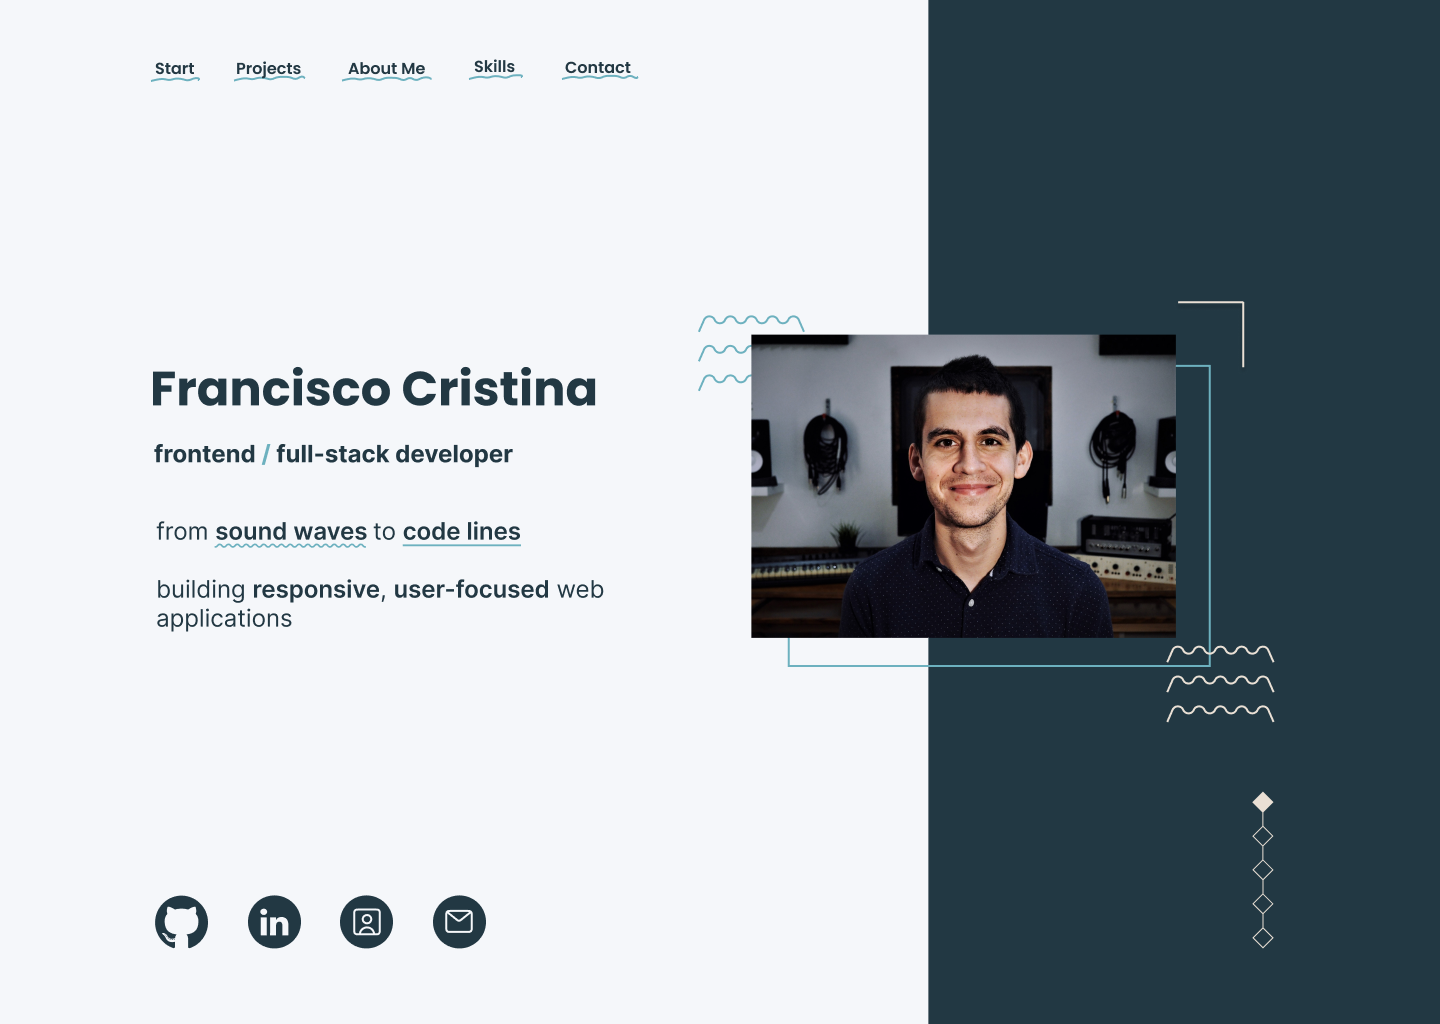
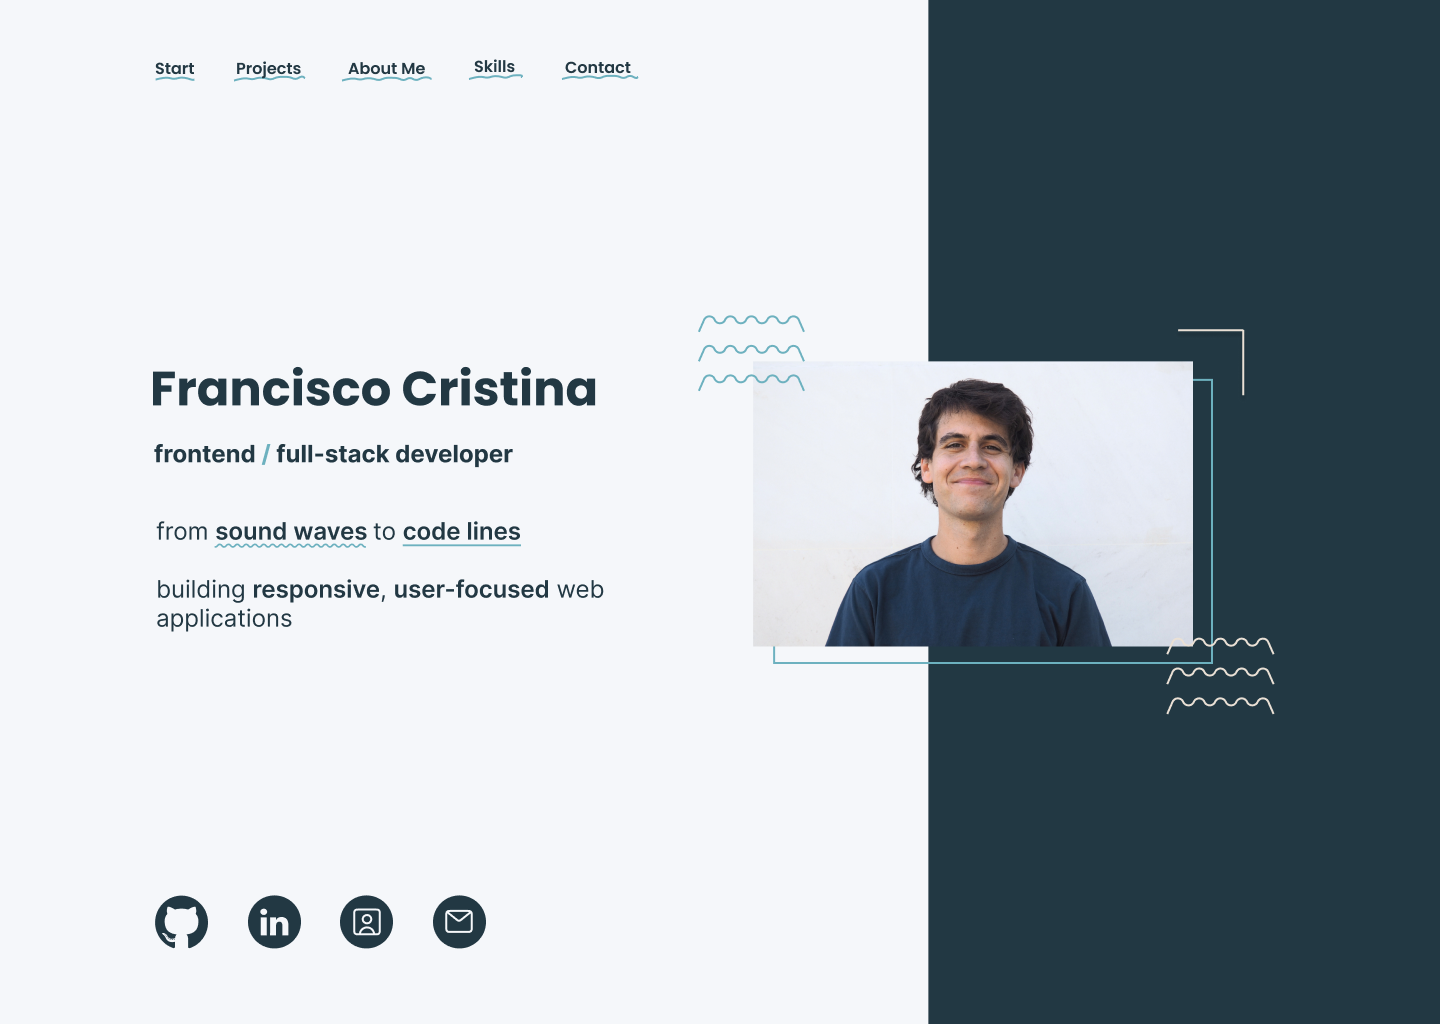
minor tweaks

Changed region(s): [[0.5, 0.3125, 0.875, 0.7188], [0.875, 0.7812, 0.9062, 0.8125]]

diff --git a/src/Projects.jsx b/src/Projects.jsx
@@ -15,23 +15,23 @@ export default function Projects() {
                 Projects
             </h2>
 
-            < Divider title={'full-stack'} isProject={true}/>
-
-            < ProjectItem image={yelpCamp} title={'Yelp Camp'} date={"Jun '25"} demo={'https://yelp-camp-qj1s.onrender.com'} repo={'https://github.com/gumballoon/yelp-camp'} description={<>Full-stack web app where users can create, edit, and review campgrounds. Includes user authentication, image uploads, and interactive maps. Built as a RESTful application with <span>Node.js</span>, <span>Express</span>, <span>MongoDB</span>, <span>Mongoose</span>, and <span>EJS</span>, following industry-standard practices taught in Colt Steele's <a href="https://www.udemy.com/course/the-web-developer-bootcamp/" target="_blank" className="link">Web Developer Bootcamp 2025</a>.</>}/>
-            
             < Divider title={'react'} isProject={true}/>
 
-            < ProjectItem image={eCommerce} title={'E-commerce Product Page'} date={"September '25"} demo={'https://gumballoon.github.io/e-commerce-product-page/'} repo={'https://github.com/gumballoon/e-commerce-product-page'} description={<>Challenge from <a href="https://www.frontendmentor.io/challenges/ecommerce-product-page-UPsZ9MJp6" target="_blank" className="link">Frontend Mentor</a>, focusing on interactive lightbox galleries, shopping cart state management, and responsive image carousels. Built with <span>React</span> and <span>Tailwind CSS</span>.</>}/>
+            < ProjectItem image={eCommerce} title={'E-commerce Product Page'} date={"September 2025"} demo={'https://gumballoon.github.io/e-commerce-product-page/'} repo={'https://github.com/gumballoon/e-commerce-product-page'} description={<>Challenge from <a href="https://www.frontendmentor.io/challenges/ecommerce-product-page-UPsZ9MJp6" target="_blank" className="link">Frontend Mentor</a>, focusing on interactive lightbox galleries, shopping cart state management, and responsive image carousels. Built with <span>React</span> and <span>Tailwind CSS</span>.</>}/>
 
-            < ProjectItem image={comments} title={'Interactive Comments'} date={"August '25"} demo={'https://gumballoon.github.io/interactive-comments-section/'} repo={'https://github.com/gumballoon/interactive-comments-section'} description={<>Challenge from <a href="https://www.frontendmentor.io/challenges/interactive-comments-section-iG1RugEG9" target="_blank" className="link">Frontend Mentor</a>, focusing on full comment interactivity with nested threads, editable and deletable comments, and voting functionality. Built with <span>React</span> and <span>Tailwind CSS</span>.</>}/>
+            < ProjectItem image={comments} title={'Interactive Comments'} date={"August 2025"} demo={'https://gumballoon.github.io/interactive-comments-section/'} repo={'https://github.com/gumballoon/interactive-comments-section'} description={<>Challenge from <a href="https://www.frontendmentor.io/challenges/interactive-comments-section-iG1RugEG9" target="_blank" className="link">Frontend Mentor</a>, focusing on full comment interactivity with nested threads, editable and deletable comments, and voting functionality. Built with <span>React</span> and <span>Tailwind CSS</span>.</>}/>
+
+            < Divider title={'full-stack'} isProject={true}/>
+
+            < ProjectItem image={yelpCamp} title={'Yelp Camp'} date={"June 2025"} demo={'https://yelp-camp-qj1s.onrender.com'} repo={'https://github.com/gumballoon/yelp-camp'} description={<>Full-stack web app where users can create, edit, and review campgrounds. Includes user authentication, image uploads, and interactive maps. Built as a RESTful application with <span>Node.js</span>, <span>Express</span>, <span>MongoDB</span>, <span>Mongoose</span>, and <span>EJS</span>, following industry-standard practices taught in Colt Steele's <a href="https://www.udemy.com/course/the-web-developer-bootcamp/" target="_blank" className="link">Web Developer Bootcamp 2025</a>.</>}/>
 
             < Divider title={'vanilla js'} isProject={true}/>
 
-            < ProjectItem image={crowdfunding} title={'Crowdfunding Product Page'} date={"May '25"} demo={'https://gumballoon.github.io/crowdfunding-product-page/'} repo={'https://github.com/gumballoon/crowdfunding-product-page'} description={<>Challenge from <a href="https://www.frontendmentor.io/challenges/crowdfunding-product-page-7uvcZe7ZR" target="_blank" className="link">Frontend Mentor</a>, focusing on interactive pledges, state updates, responsive design, and dynamic DOM manipulation. Built with <span>JavaScript</span> (vanilla) and <span>Bootstrap</span>.</>}/>
+            < ProjectItem image={crowdfunding} title={'Crowdfunding Product Page'} date={"May 2025"} demo={'https://gumballoon.github.io/crowdfunding-product-page/'} repo={'https://github.com/gumballoon/crowdfunding-product-page'} description={<>Challenge from <a href="https://www.frontendmentor.io/challenges/crowdfunding-product-page-7uvcZe7ZR" target="_blank" className="link">Frontend Mentor</a>, focusing on interactive pledges, state updates, responsive design, and dynamic DOM manipulation. Built with <span>JavaScript</span> (vanilla) and <span>Bootstrap</span>.</>}/>
 
-            < ProjectItem image={cart} title={'Product List w/ Cart'} date={"March '25"} demo={'https://gumballoon.github.io/product-list-with-cart/'} repo={'https://github.com/gumballoon/product-list-with-cart'} description={<>Challenge from <a href="https://www.frontendmentor.io/challenges/product-list-with-cart-5MmqLVAp_d" target="_blank" className="link">Frontend Mentor</a>, focusing on updating the UI in multiple places based on user actions, cart functionality, and responsive layout. Built with <span>JavaScript</span> (vanilla) and <span>Bootstrap</span>.</>}/>
+            < ProjectItem image={cart} title={'Product List w/ Cart'} date={"March 2025"} demo={'https://gumballoon.github.io/product-list-with-cart/'} repo={'https://github.com/gumballoon/product-list-with-cart'} description={<>Challenge from <a href="https://www.frontendmentor.io/challenges/product-list-with-cart-5MmqLVAp_d" target="_blank" className="link">Frontend Mentor</a>, focusing on updating the UI in multiple places based on user actions, cart functionality, and responsive layout. Built with <span>JavaScript</span> (vanilla) and <span>Bootstrap</span>.</>}/>
 
-            < ProjectItem image={capoot} title={'Capoot'} date={"January '25"} demo={'https://gumballoon.github.io/capoot/'} repo={'https://github.com/gumballoon/capoot'} description={<>An <span>original project</span>: a capo calculator web app that transposes power chord progressions into open chords. Select your chords, get the capo fret, and play simplified open chord versions. Designed in <span>Figma</span> and built with <span>JavaScript</span> (vanilla) and <span>Bootstrap</span>.</>}/>
+            < ProjectItem image={capoot} title={'Capoot'} date={"January 2025"} demo={'https://gumballoon.github.io/capoot/'} repo={'https://github.com/gumballoon/capoot'} description={<>An <span>original project</span>: a capo calculator web app that transposes power chord progressions into open chords. Select your chords, get the capo fret, and play simplified open chord versions. Designed in <span>Figma</span> and built with <span>JavaScript</span> (vanilla) and <span>Bootstrap</span>.</>}/>
         </section>
     )
 }

diff --git a/src/AboutMe.jsx b/src/AboutMe.jsx
@@ -9,25 +9,25 @@ export default function AboutMe() {
         <div className="AboutMe">
             <div className='max-w-[1280px] mx-auto lg:mt-16 lg:grid lg:grid-cols-3 items-center'>
                 {/* Text Box */}
-                <div className='px-8 pt-16 lg:pl-8 lg:pr-40 lg:py-8 lg:col-span-2'>
+                <div className='px-8 pt-16 lg:pl-8 lg:pr-40 lg:py-16 lg:col-span-2'>
                     <h2 className="poppins text-3xl font-bold leading-normal tracking-wider md:text-[2.25rem] xl:text-[2.5rem] transition-all duration-300">About Me</h2>
                 
                     <p className="mt-4">
-                        I’m a <span>career-switcher</span> from Lisbon (Portugal) who spent years as a <span><a href="https://linktr.ee/franciscocristina" target="_blank" className="link">sound engineer</a></span>. Working in post-production studios and as a freelancer, I developed a <span>strong work ethic</span>, a <span>commitment to quality</span>, and the skills to <span>communicate clearly and proactively</span> with clients and team members.
-                        Now I bring that same <span>dedication</span>, <span>attention to detail</span>, and <span>proactive mindset</span> to web development.
+                        I’m a <span>career-switcher</span> based in Lisbon (Portugal) who spent years as an <span><a href="https://linktr.ee/franciscocristina" target="_blank" className="link">audio engineer</a></span>. Working in post-production studios and as a freelancer, I developed a <span>strong work ethic</span>, a <span>proactive mindset</span>, and the skills to <span>communicate clearly</span> with clients and team members.
+                        Now I bring that same dedication to web development.
                     </p>
                     
                     <p className="mt-4">
-                        Over the past year, I’ve built <span>50+ frontend projects</span>, developed <span>full-stack applications</span>, and consistently practiced <span>coding challenges</span>. My portfolio showcases <span>hands-on experience</span> with <span>full-stack development</span>, <span>responsive design</span>, and <span>real-world problem-solving</span>.
-                        I leverage <span>AI tools</span> like ChatGPT and Claude to accelerate learning and debugging, but <span>all project code is written and debugged by me</span>.
+                        Over the past year, I’ve built <span>50+ frontend projects</span>, developed <span>full-stack applications</span>, and consistently practiced coding challenges. My portfolio showcases <span>hands-on experience</span> with responsive design and practical problem-solving.
+                        I leverage AI tools like ChatGPT and Claude to accelerate learning and debugging, but <span>all project code is written and debugged by me</span>.
                     </p>
                     
                     <p className="mt-4">
-                        I’m also committed to <span>continuous growth</span>. I’ve completed <span>Colt Steele’s <a href="https://www.udemy.com/course/the-web-developer-bootcamp/" target="_blank" className="link">Full-Stack Web Development</a></span> and <span><a href="https://www.udemy.com/course/the-ultimate-mysql-bootcamp-go-from-sql-beginner-to-expert/" target="_blank" className="link">MySQL</a> bootcamps</span>, plus complementary courses in <span>web development</span>, <span>Figma</span>, <span>SQL</span>, and <span>Python</span>. Each course and project builds on the last, helping me become a more <span>versatile</span> and <span>well-rounded developer</span>.
+                        I’m also committed to <span>continuous growth</span>. I’ve completed Colt Steele’s <span><a href="https://www.udemy.com/course/the-web-developer-bootcamp/" target="_blank" className="link">Full-Stack Web Development</a></span> and <span><a href="https://www.udemy.com/course/the-ultimate-mysql-bootcamp-go-from-sql-beginner-to-expert/" target="_blank" className="link">MySQL</a></span> bootcamps, along with courses in Figma, Python, and other areas of web development. Each course and project builds on the last, helping me become a more <span>versatile</span> and <span>well-rounded developer</span>.
                     </p>
                     
                     <p className="my-4">
-                        My goal is to join a team where I can grow as a <span>frontend or full-stack developer</span> while contributing with my <span>problem-solving</span>, <span>user-focused mindset</span>, and <span>commitment to high-quality work</span>.
+                        My goal is to join a team where I can grow as a frontend or full-stack developer while combining <span>creative thinking</span> with <span>attention to detail</span> in every project.
                     </p>
 
                     <a href="#" target="_blank" className='border-3 border-gb-beige-500 rounded-lg px-2 py-0.5 flex items-center w-max hover:cursor-pointer hover:border-gb-teal-500 group transition-all duration-300 group'>

diff --git a/src/Menu.jsx b/src/Menu.jsx
@@ -5,13 +5,13 @@ export default function Menu({ isMenuVisible, closeMenu, startRef, projectsRef, 
     return (
         <div className={`Menu ${isMenuVisible && 'ShowMenu'}`}>
             { isMenuVisible &&
-                <div className="fixed inset-0 w-full h-full z-50 lg:w-[20rem] lg:h-min lg:ml-auto bg-gb-beige-500 px-7 pt-13 lg:px-7 lg:pt-9 lg:mr-4 lg:mt-4">
-                    <svg className={`h-8 ml-auto group hover:cursor-pointer ${isMenuVisible && 'ShowMenuButton'}`} onClick={closeMenu} viewBox="0 0 17 17" fill="none" xmlns="http://www.w3.org/2000/svg" preserveAspectRatio="xMidYMid meet">
+                <div className="fixed inset-0 w-full h-full z-50 lg:w-[20rem] lg:h-min lg:ml-auto bg-gb-beige-500 pr-6 pt-3 lg:px-7 lg:pt-9 lg:mr-4 lg:mt-4">
+                    <svg className={`h-8 ml-auto group hover:cursor-pointer ${isMenuVisible && 'ShowMenuButton'}`} onClick={closeMenu} viewBox="0 0 17 17" fill="none" xmlns="http://www.w3.org/2000/svg" preserveAspectRatio="xMidYMid meet" role='button' aria-label='close menu'>
                         <rect className="group-hover:fill-gb-neutral-100 transition-all duration-150" width="17" height="17" fill="#223843"/>
                         <path d="M4.95833 4.95831L12.0417 12.0416M4.95833 12.0416L12.0417 4.95831" stroke="#EAE0D5" stroke-width="1.41667" stroke-linecap="round" stroke-linejoin="round"/>
                     </svg>
 
-                    <div className="my-16 w-full flex flex-col items-center gap-10 lg:gap-15">
+                    <div className="my-12 w-full flex flex-col items-center gap-10 lg:gap-15">
                         <div className="flex flex-col items-center">
                             <a className='relative px-2 poppins font-semibold text-xl tracking-[0.15rem] flex flex-col items-center w-max group peer hover:cursor-pointer' onClick={() => scrollTo(startRef)}>
                                 Start

diff --git a/src/Contact.jsx b/src/Contact.jsx
@@ -38,13 +38,19 @@ export default function Contact() {
                     </div>
                 </div>
 
-                <div className='col-span-2 xl:col-span-1 xl:self-end'>
-                    <p className='font-extralight my-12 md:mt-6 xl:mb-4'>
-                        Designed in <span className='font-normal'>Figma</span> and coded in <span className='font-normal'>Visual Studio Code</span>.
-                        Built with <span className='font-normal'>React</span> and <span className='font-normal'>Tailwind CSS</span>, deployed with <span className='font-normal'>Github Pages</span>. 
-                        Headings are set in the <span className='font-normal'>Poppins</span> typeface, while body text uses <span className='font-normal'>Inter</span>.
-                    </p>
-                    <p className='text-lg font-extralight xl:text-end'>© Francisco Cristina 2025</p>
+                <div className="col-span-2 xl:col-span-1 xl:self-end">
+                <p className="font-extralight my-12 md:mt-6 xl:mb-4">
+                    Designed in <span className="font-normal">Figma</span> and coded in{" "}
+                    <span className="font-normal whitespace-nowrap">Visual Studio Code</span>.
+                    Built with <span className="font-normal">React</span> and{" "}
+                    <span className="font-normal">Tailwind CSS</span>, deployed with{" "}
+                    <span className="font-normal">Github Pages</span>. Headings are set in the{" "}
+                    <span className="font-normal">Poppins</span> typeface, while body text uses{" "}
+                    <span className="font-normal">Inter</span>.
+                </p>
+                <p className="text-lg font-extralight xl:text-end">
+                    © Francisco Cristina 2025
+                </p>
                 </div>
             </div>
         </footer>

diff --git a/src/Skills.jsx b/src/Skills.jsx
@@ -42,10 +42,10 @@ export default function Skills() {
 
                 <div>
                     < Divider title={'frontend'}/>
-                    <div className="w-full grid grid-cols-4 gap-4 items-center justify-between mt-6 px-6 text-gb-neutral-500 text-sm">
-                        < SkillsIcon SVG={IconReact} width={'50%'} description={'React'}/>
-                        < SkillsIcon SVG={IconTailwind} width={'50%'} description={'TailwindCSS'}/>
-                        < SkillsIcon SVG={IconBootstrap} width={'50%'} description={'Bootstrap'}/>
+                    <div className="w-full grid grid-cols-4 gap-4 items-center justify-between mt-6 px-5 text-gb-neutral-500 text-sm">
+                        < SkillsIcon SVG={IconReact} width={'55%'} description={'React'}/>
+                        < SkillsIcon SVG={IconTailwind} width={'55%'} description={'TailwindCSS'}/>
+                        < SkillsIcon SVG={IconBootstrap} width={'55%'} description={'Bootstrap'}/>
                         < SkillsIcon SVG={IconFigma} width={'50%'} description={'Figma'}/>
                     </div>
                 </div>
@@ -56,7 +56,7 @@ export default function Skills() {
                         < SkillsIcon SVG={IconNode} width={'50%'} description={'Node.js'}/>
                         < SkillsIcon SVG={IconExpress} width={'50%'} description={'Express'}/>
                         < SkillsIcon SVG={IconMongo} width={'55%'} description={'MongoDB'}/>
-                        < SkillsIcon SVG={IconMongoose} width={'60%'} description={'Mongoose'}/>
+                        < SkillsIcon SVG={IconMongoose} width={'65%'} description={'Mongoose'}/>
                         < SkillsIcon SVG={IconMySql} width={'50%'} description={'MySQL'}/>
                     </div>
                 </div>

diff --git a/src/TopBanner.jsx b/src/TopBanner.jsx
@@ -13,10 +13,10 @@ import ShapeWavesTeal from './assets/shape-waves-teal.svg';
 export default function TopBanner() {
     return (
         <section className='TopBanner' id='TopBanner'>
-            <div className='max-w-[1280px] mx-auto md:grid md:grid-cols-3 items-center'>
+            <div className='max-w-[1280px] mx-auto md:grid md:grid-cols-3 items-center md:mt-18'>
                 {/* Text Box */}
                 <div className='px-8 md:pl-8 md:pr-40 md:py-8 md:col-span-2'>
-                    <div className='py-32'>
+                    <div className='pt-32 pb-20 md:pt-24 md:pb-24'>
                         <h1 className='poppins text-4xl font-bold leading-normal tracking-wider mb-4 md:text-[2.5rem] xl:text-[3rem] transition-all duration-300'>
                             Francisco Cristina
                         </h1>
@@ -34,7 +34,7 @@ export default function TopBanner() {
                         </p>
                     </div>
 
-                    <div className='grid grid-cols-4 w-60 gap-8 items-center mb-0 text-gb-neutral-500 text-sm'>
+                    <div className='grid grid-cols-4 w-60 gap-6 items-center mb-0 text-gb-neutral-500 text-sm'>
                         < TopBannerIcon SVG={IconGithub} description={'Github'} link={"https://github.com/gumballoon"} />
 
                         < TopBannerIcon SVG={IconLinkedIn} description={'LinkedIn'} link={"https://www.linkedin.com/in/francisco-cristina/"} />

diff --git a/src/Navbar.jsx b/src/Navbar.jsx
@@ -1,0 +1,23 @@
+import { useState } from 'react';
+import './Navbar.css';
+
+export default function Navbar({ openMenu }) {
+    const [isMenuOpening, setIsMenuOpening] = useState(false);
+
+    function handleClick() {
+        setIsMenuOpening(true);
+        openMenu();
+        setTimeout(
+            () => setIsMenuOpening(false), 600
+        );
+    }
+
+    return (
+        <nav className="Navbar bg-gb-navy-500 flex items-center justify-end py-2 px-5 xl:pr-12 w-full h-min fixed inset-0 transition-all duration-100">
+            <div className={`p-3 flex flex-col justify-center items-end gap-[0.15rem] group hover:cursor-pointer ${isMenuOpening && 'OpenMenu'}`} onClick={handleClick} role='button' aria-label='open menu'>
+                <div className="mb-2 w-6 h-0.5 rounded-full bg-gb-neutral-100 backdrop-blur-xs group-hover:w-7 transition-all duration-200"/>
+                <div className="w-4.5 h-0.5 rounded-full bg-gb-neutral-100 ml-auto backdrop-blur-xs group-hover:w-5.5 transition-all duration-200"/>
+            </div>
+        </nav>
+    )
+}

diff --git a/src/ProjectItem.jsx b/src/ProjectItem.jsx
@@ -34,12 +34,14 @@ export default function ProjectItem({ image=DefaultImage, title, date, descripti
                     </div>
                     <p className='leading-relaxed lg:leading-loose transition-all duration-300'>{description}</p>
                 </div>
-                <h3 className="text-lg lg:text-2xl mt-4 lg:mt-0 text-right lg:text-start order-2 lg:order-1">
-                    <span className="font-semibold lg:font-bold mr-2">
+                <div className={`flex flex-col lg:flex-row lg:justify-start flex-wrap order-2 lg:order-1 text-center lg:text-star mt-4 lg:mt-0 ${isViewCollapsed ? 'items-center' : 'items-end'}`}>
+                    <h3 className="text-xl lg:text-2xl font-semibold lg:font-bold lg:mr-2">
                         {title}
-                    </span> 
-                    [{date}]
-                </h3>
+                    </h3>
+                    <p className="font-light text-lg lg:text-xl">
+                        {date}
+                    </p> 
+                </div>
             </div>
         </div>
     )

diff --git a/src/App.jsx b/src/App.jsx
@@ -1,7 +1,7 @@
 import { useState, useRef, useEffect } from 'react';
 import './App.css'
 
-import MenuButton from './MenuButton';
+import Navbar from './Navbar';
 import Menu from './Menu';
 import TopBanner from './TopBanner';
 import Projects from './Projects';
@@ -49,7 +49,7 @@ export default function App() {
           <Contact />
         </div>
       </div>
-      < MenuButton isMenuVisible={isMenuVisible} openMenu={() => setIsMenuVisible(true)} />
+      < Navbar isMenuVisible={isMenuVisible} openMenu={() => setIsMenuVisible(true)} />
       < Menu isMenuVisible={isMenuVisible} closeMenu={() => setIsMenuVisible(false)} startRef={startRef} projectsRef={projectsRef} aboutRef={aboutRef} skillsRef={skillsRef} contactRef={contactRef} scrollTo={scrollTo}/>
     </div>
   )

diff --git a/src/SkillsIcon.jsx b/src/SkillsIcon.jsx
@@ -5,7 +5,7 @@ export default function SkillsIcon({ SVG, width, description } ) {
         <div className='SkillsIcon flex flex-col items-center' role='img' aria-label={description}>
             < SVG className={`w-[${width}] max-w-12 peer`} aria-hidden='true'/>
 
-        <span className='block mt-2 font-extralight opacity-0 peer-hover:opacity-100 peer-focus:opacity-100 peer-active:opacity-100 transition-opacity duration-300' aria-hidden='true'>{description}</span>
-    </div>
+            <span className='block mt-2 font-extralight opacity-0 peer-hover:opacity-100 peer-focus:opacity-100 peer-active:opacity-100 transition-opacity duration-300' aria-hidden='true'>{description}</span>
+        </div>
     )
 } 

diff --git a/index.html b/index.html
@@ -17,7 +17,7 @@
 
     <meta
       name="description"
-      content="Junior web developer focused on frontend and full-stack development. I bring dedication and problem-solving skills to creating responsive applications and continue to grow through hands-on learning."
+      content="Junior web developer focused on frontend and full-stack development. I bring dedication and problem-solving skills to creating responsive applications, and continue to grow through hands-on learning."
     />
 
     <meta

diff --git a/src/Navbar.css b/src/Navbar.css
@@ -12,6 +12,6 @@
     }
 }
 
-.MenuButton .OpenMenu{
+.Navbar .OpenMenu{
     animation: 300ms spin;
 }
